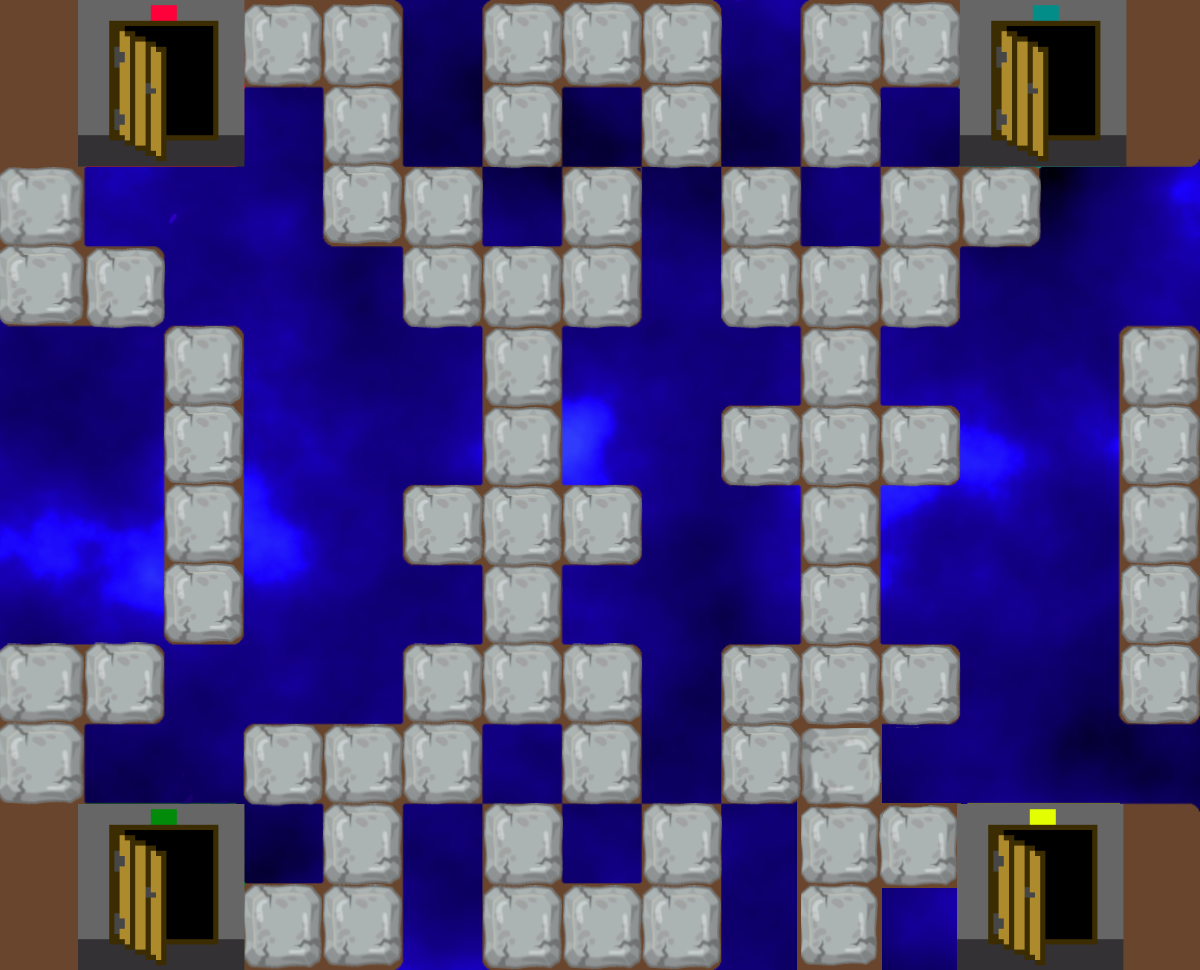
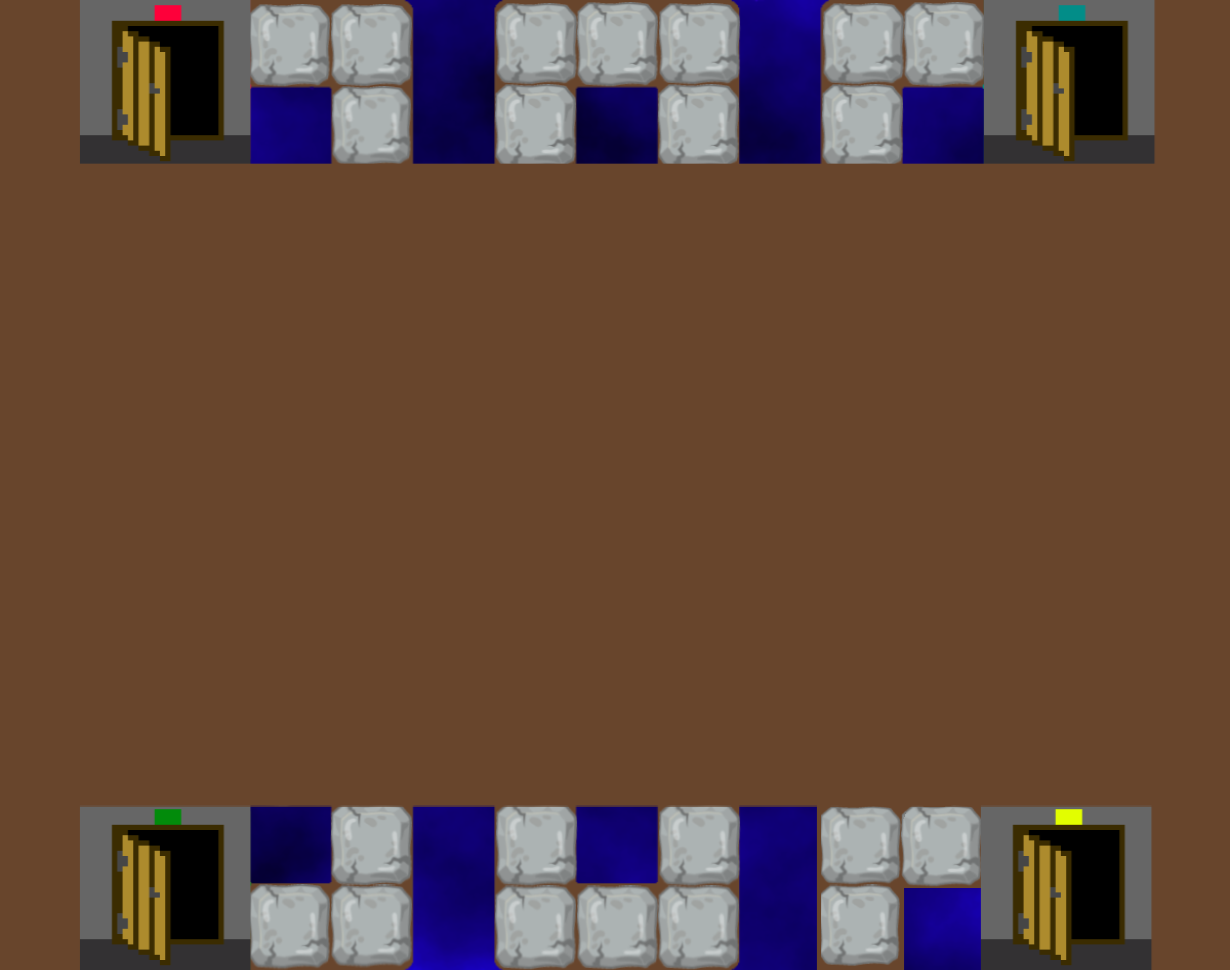
9/12/26 push

diff --git a/Board.java b/Board.java
@@ -1,0 +1,67 @@
+import javax.swing.*;
+import javax.swing.ImageIcon;
+import java.io.*;
+import java.awt.*;
+import java.awt.event.*;
+import java.util.Vector;
+
+
+public class Board{
+    JFrame frame = new JFrame();
+    JPanel boardPanel = new JPanel();
+
+    JButton[][] board = new JButton[12][15];
+    int[][] Grid_Matrix = {
+            {0,1,1,1,1,0,1,1,1,0,1,1,1,1,0},
+            {0,1,1,0,1,0,1,0,1,0,1,0,1,1,0},
+            {1,0,0,0,1,1,0,1,0,1,0,1,1,0,0},
+            {1,1,0,0,0,1,1,1,0,1,1,1,0,0,0},
+            {0,0,1,0,0,0,1,0,0,0,1,0,0,0,1},
+            {0,0,1,0,0,0,1,0,0,1,1,1,0,0,1},
+            {0,0,1,0,0,1,1,1,0,0,1,0,0,0,1},
+            {0,0,1,0,0,0,1,0,0,0,1,0,0,0,1},
+            {1,1,0,0,0,1,1,1,0,1,1,1,0,0,1},
+            {1,0,0,1,1,1,0,1,0,1,1,0,0,0,0},
+            {0,1,1,0,1,0,1,0,1,0,1,1,1,1,0},
+            {0,1,1,1,1,0,1,1,1,0,1,0,1,1,0}
+    };
+
+    //JLayeredPane sliders = new JLayeredPane();
+    //JLabel rowSliders = new JLabel[4];
+    //int[] slideroffset = new int[4];
+
+
+    Board() {
+        frame.setResizable(false);
+        frame.setDefaultCloseOperation(JFrame.EXIT_ON_CLOSE);
+        frame.setLayout(new BorderLayout());
+
+        JLabel background = new JLabel(new ImageIcon("src/shifti_board.png"));
+        String[] Pngs = {
+                "src/shifti_board_row2.png",
+                "src/shifti_board_row3.png",
+                "src/shifti_board_row4.png",
+                "src/shifti_board_row2.png"
+        };
+
+        background.setLayout(new GridLayout(12,15));
+
+        for(int row = 0; row < 12; row++){
+            for(int col = 0; col < 15; col++){
+                board[row][col] = new JButton();
+                board[row][col].setContentAreaFilled(false);
+                background.add(board[row][col]);
+            }
+        }
+        frame.add(background);
+
+        frame.pack();
+
+        frame.setLocationRelativeTo(null);
+        frame.setVisible(true);
+    }
+
+}
+
+
+

diff --git a/Main.java b/Main.java
@@ -1,31 +1,11 @@
 //TIP To <b>Run</b> code, press <shortcut actionId="Run"/> or
 // click the <icon src="AllIcons.Actions.Execute"/> icon in the gutter.
 
-import java.awt.*;
 import java.util.Vector;
-import java.io.*;
-import javax.swing.*;
-import javax.swing.ImageIcon;
 
 
 public class Main {
     public static void main(String[] args) {
-        //Vector<String> Gameboard = new Vector<>();
-        JFrame frame = new JFrame();
-
-        frame.setSize(1800, 1000);
-
-
-      ImageIcon board = new ImageIcon("shifti_board.png");
-      JLabel label = new JLabel(board);
-      frame.add(label);
-      frame.setSize(500,500);
-      frame.setDefaultCloseOperation(JFrame.EXIT_ON_CLOSE);
-
-        // using no layout managers
-        frame.setLayout(null);
-
-        // making the frame visible
-        frame.setVisible(true);
+        new Board();
     }
 }
